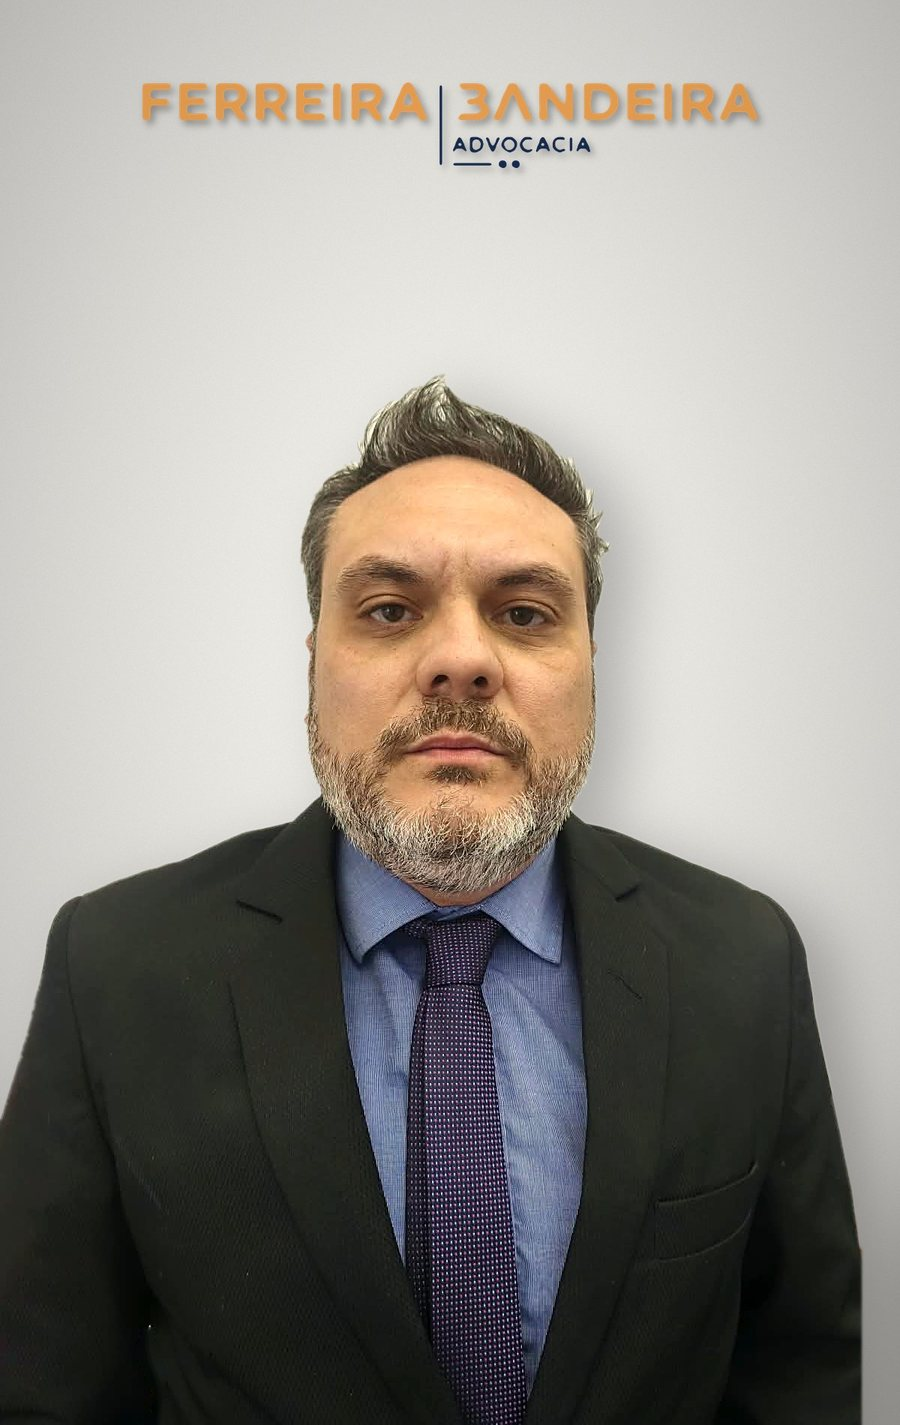
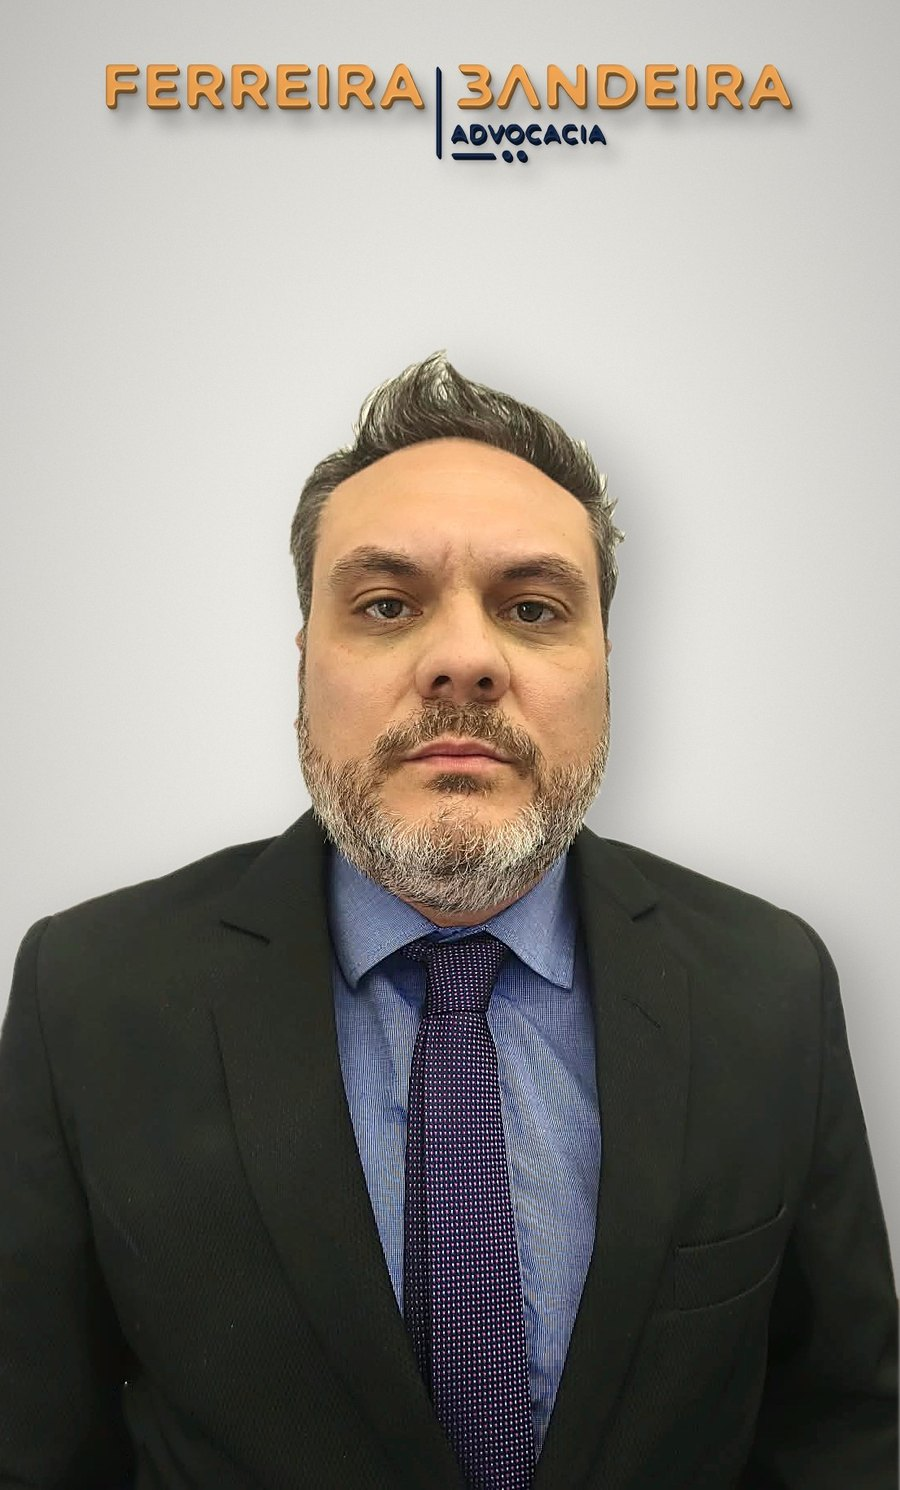
Retrato retocado com letreiro 3D na parede
Claude-Session: https://claude.ai/code/session_016uA9FdEDwjXahrAq4msSJS

Changed region(s): [[0.0, 0.2161, 1.0, 1.0], [0.0933, 0.0309, 0.9022, 0.1235]]

diff --git a/index.html b/index.html
@@ -181,7 +181,7 @@
     </div>
     <div class="wrap">
       <div class="adv-card">
-        <div class="retrato com-foto"><picture><source srcset="/assets/mauricio-bandeira.webp" type="image/webp"><img src="/assets/mauricio-bandeira.jpg" alt="Advogado Maurício Barreto de Ferreira Bandeira, OAB/PR 88.257" width="900" height="1425" loading="lazy" decoding="async"></picture></div>
+        <div class="retrato com-foto"><picture><source srcset="/assets/mauricio-bandeira.webp" type="image/webp"><img src="/assets/mauricio-bandeira.jpg" alt="Advogado Maurício Barreto de Ferreira Bandeira, OAB/PR 88.257" width="900" height="1490" loading="lazy" decoding="async"></picture></div>
         <div class="adv-info">
           <div class="eyebrow">Advogado responsável</div>
           <h3 id="h-adv-nome">Maurício Barreto de Ferreira Bandeira</h3>

diff --git a/tools/home.tpl.html b/tools/home.tpl.html
@@ -162,7 +162,7 @@
     </div>
     <div class="wrap">
       <div class="adv-card">
-        <div class="retrato com-foto"><picture><source srcset="/assets/mauricio-bandeira.webp" type="image/webp"><img src="/assets/mauricio-bandeira.jpg" alt="Advogado Maurício Barreto de Ferreira Bandeira, OAB/PR 88.257" width="900" height="1425" loading="lazy" decoding="async"></picture></div>
+        <div class="retrato com-foto"><picture><source srcset="/assets/mauricio-bandeira.webp" type="image/webp"><img src="/assets/mauricio-bandeira.jpg" alt="Advogado Maurício Barreto de Ferreira Bandeira, OAB/PR 88.257" width="900" height="1490" loading="lazy" decoding="async"></picture></div>
         <div class="adv-info">
           <div class="eyebrow">Advogado responsável</div>
           <h3 id="h-adv-nome">Maurício Barreto de Ferreira Bandeira</h3>
